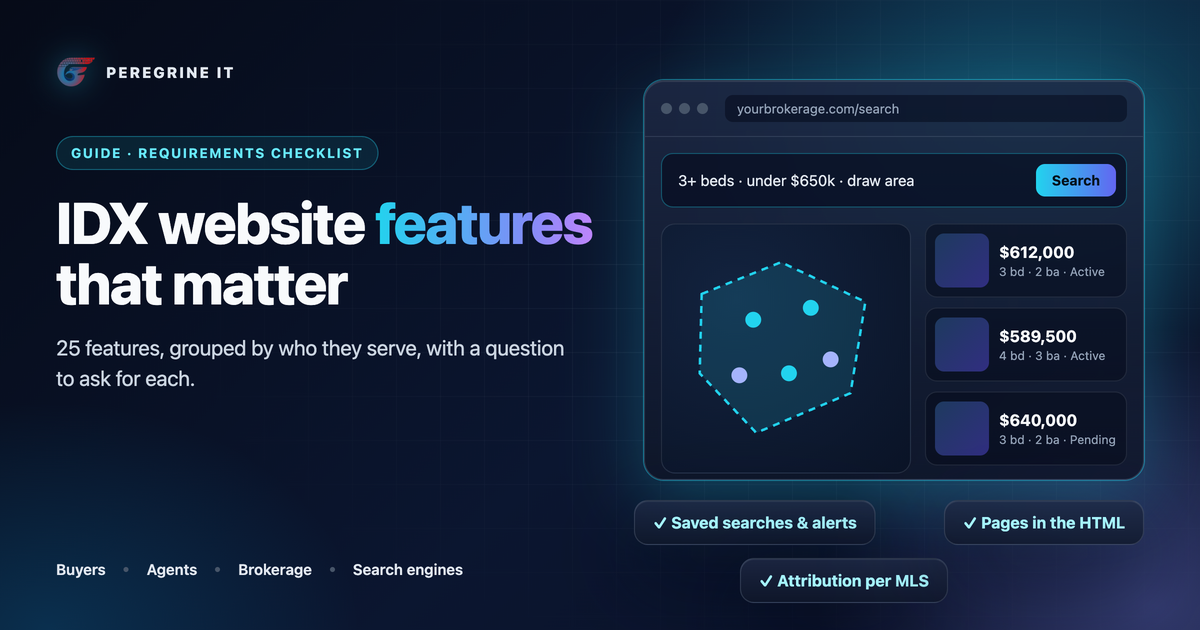
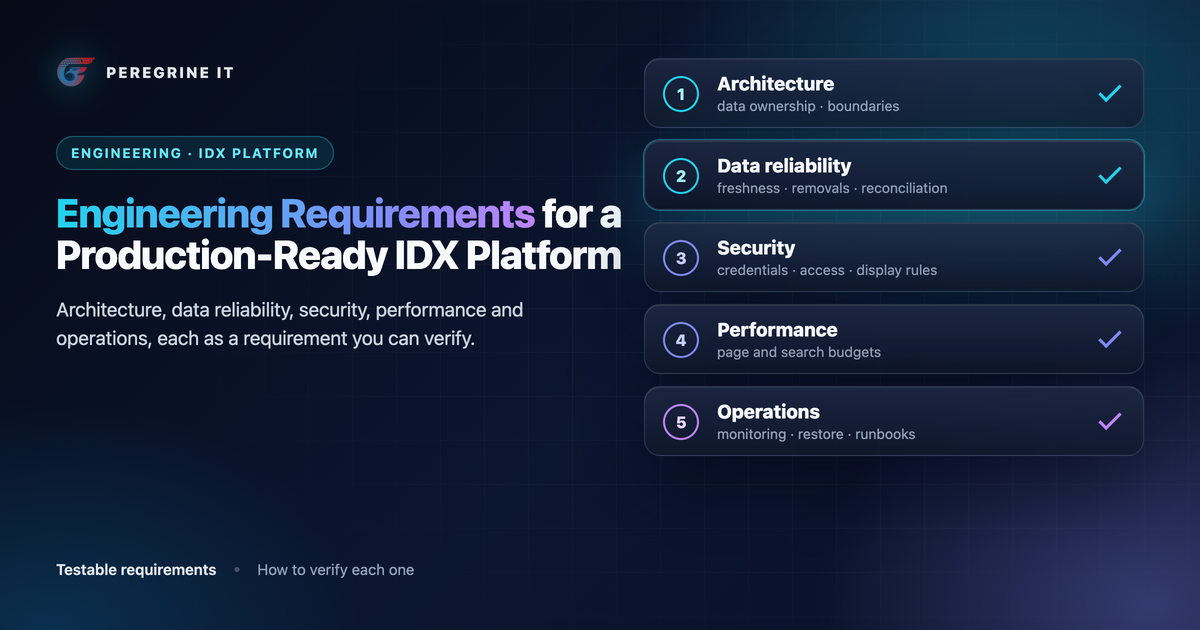
content: cover for the IDX engineering requirements article

diff --git a/design/blog-heroes/idx-website-features-checklist.html b/design/blog-heroes/idx-website-features-checklist.html
@@ -1,5 +1,5 @@
 <!doctype html><html lang="en"><head><meta charset="utf-8"><meta name="viewport" content="width=1200">
-<title>Guide · Requirements checklist</title><style>
+<title>Engineering · IDX platform</title><style>
 *{box-sizing:border-box;margin:0;padding:0}
 html,body{width:1200px;height:630px;overflow:hidden}
 body{font-family:Inter,'SF Pro Display',system-ui,-apple-system,'Segoe UI',Roboto,Helvetica,Arial,sans-serif;color:#f8fafc;
@@ -28,18 +28,14 @@ h1 em{font-style:normal;background:linear-gradient(90deg,#22d3ee,#818cf8 70%,#c0
  box-shadow:0 30px 80px rgba(2,6,23,.65),inset 0 1px 0 rgba(255,255,255,.07);backdrop-filter:blur(6px)}
 .glow{box-shadow:0 0 0 1px rgba(34,211,238,.45),0 24px 70px rgba(34,211,238,.28),inset 0 1px 0 rgba(255,255,255,.1)}
 .muted{color:#94a3b8}.cy{color:#67e8f9}
-.win{position:absolute;right:0;top:28px;width:500px;height:400px;overflow:hidden}.bar{display:flex;align-items:center;gap:7px;padding:14px 16px;border-bottom:1px solid rgba(148,163,184,.18)}
-.bar i{width:11px;height:11px;border-radius:50%;background:#475569}.url{margin-left:10px;flex:1;font-size:13px;color:#94a3b8;background:rgba(2,6,23,.5);border-radius:8px;padding:6px 12px}
-.search{margin:16px;display:flex;align-items:center;justify-content:space-between;background:rgba(2,6,23,.55);border:1px solid rgba(34,211,238,.35);border-radius:12px;padding:10px 10px 10px 16px;font-size:15px;color:#e2e8f0}
-.search b{background:linear-gradient(90deg,#22d3ee,#6366f1);color:#04121c;padding:8px 16px;border-radius:9px;font-size:14px}
-.body{display:flex;gap:14px;padding:0 16px}.map{width:250px;height:250px;border-radius:14px;background:radial-gradient(circle at 30% 30%,#13233f,#0a1326);border:1px solid rgba(148,163,184,.18)}
-.list{flex:1;display:flex;flex-direction:column;gap:10px}.it{display:flex;gap:10px;align-items:center;background:rgba(2,6,23,.45);border:1px solid rgba(148,163,184,.16);border-radius:12px;padding:9px}
-.it u{width:54px;height:54px;border-radius:9px;background:linear-gradient(135deg,#1e3a5f,#312e81);display:block}.it p{display:flex;flex-direction:column;font-size:16px}.it s{text-decoration:none;white-space:nowrap;font-size:12px;color:#94a3b8;margin-top:3px}
-.chk{position:absolute;font-size:16px;font-weight:700;padding:12px 18px;border-radius:14px;color:#a5f3fc}.k1{left:-10px;top:448px}.k2{left:96px;top:506px}.k3{right:0;top:448px}</style></head><body><div class="bg"></div><div class="grid"></div>
-<div class="wrap"><div class="left"><div class="brand"><img src="../../public/favicons/favicon-192x192.png" alt="">PEREGRINE IT</div><div class="pill">Guide · Requirements checklist</div>
-<h1>IDX website <em>features</em> that matter</h1><p class="sub">25 features, grouped by who they serve, with a question to ask for each.</p><div class="foot"><b>Buyers</b><span class='dot'></span><b>Agents</b><span class='dot'></span><b>Brokerage</b><span class='dot'></span><b>Search engines</b></div></div><div class="right"><div class="win glass glow"><div class="bar"><i></i><i></i><i></i><div class="url">yourbrokerage.com/search</div></div>
-<div class="search"><span>3+ beds · under $650k · draw area</span><b>Search</b></div>
-<div class="body"><div class="map"><svg viewBox="0 0 250 250"><path d="M40 70 L120 38 L205 78 L190 170 L95 210 L38 150 Z" fill="rgba(34,211,238,.14)" stroke="#22d3ee" stroke-width="2.5" stroke-dasharray="7 6"/>
-<g fill="#22d3ee"><circle cx="92" cy="96" r="8"/><circle cx="150" cy="84" r="8"/><circle cx="128" cy="150" r="8"/><circle cx="170" cy="136" r="8" fill="#a5b4fc"/><circle cx="78" cy="152" r="8" fill="#a5b4fc"/></g></svg></div>
-<div class="list"><div class="it"><u></u><p><b>$612,000</b><s>3 bd · 2 ba · Active</s></p></div><div class="it"><u></u><p><b>$589,500</b><s>4 bd · 3 ba · Active</s></p></div><div class="it"><u></u><p><b>$640,000</b><s>3 bd · 2 ba · Pending</s></p></div></div></div></div>
-<div class="chk k1 glass">✓ Saved searches &amp; alerts</div><div class="chk k2 glass">✓ Attribution per MLS</div><div class="chk k3 glass">✓ Pages in the HTML</div></div></div></body></html>
+.left{width:590px}.sub{font-size:19.5px;max-width:540px}h1{font-size:40px}.ly{position:absolute;right:0;width:500px;height:70px;border-radius:16px;padding:0 20px 0 72px;display:flex;flex-direction:column;justify-content:center}
+.ly b{font-size:19px;font-weight:800}.ly small{font-size:14px;color:#94a3b8;margin-top:3px}
+.ly i{position:absolute;left:18px;top:17px;width:36px;height:36px;border-radius:50%;border:2px solid #22d3ee;color:#a5f3fc;font-style:normal;font-weight:800;font-size:16px;display:flex;align-items:center;justify-content:center}
+.ly u{position:absolute;right:22px;top:26px;width:22px;height:11px;border-left:3px solid #22d3ee;border-bottom:3px solid #22d3ee;transform:rotate(-45deg);text-decoration:none}
+.l1{top:6px}.l2{top:88px}.l3{top:170px}.l4{top:252px}.l5{top:334px}.l3 i,.l4 i{border-color:#818cf8;color:#c7d2fe}.l3 u,.l4 u{border-color:#818cf8}.l5 i{border-color:#c084fc;color:#e9d5ff}.l5 u{border-color:#c084fc}</style></head><body><div class="bg"></div><div class="grid"></div>
+<div class="wrap"><div class="left"><div class="brand"><img src="../../public/favicons/favicon-192x192.png" alt="">PEREGRINE IT</div><div class="pill">Engineering · IDX platform</div>
+<h1><em>Engineering Requirements</em> for a Production-Ready IDX Platform</h1><p class="sub">Architecture, data reliability, security, performance and operations, each as a requirement you can verify.</p><div class="foot"><b>Testable requirements</b><span class='dot'></span>How to verify each one</div></div><div class="right"><div class="ly glass l1"><i>1</i><b>Architecture</b><small>data ownership · boundaries</small><u></u></div>
+<div class="ly glass glow l2"><i>2</i><b>Data reliability</b><small>freshness · removals · reconciliation</small><u></u></div>
+<div class="ly glass l3"><i>3</i><b>Security</b><small>credentials · access · display rules</small><u></u></div>
+<div class="ly glass l4"><i>4</i><b>Performance</b><small>page and search budgets</small><u></u></div>
+<div class="ly glass l5"><i>5</i><b>Operations</b><small>monitoring · restore · runbooks</small><u></u></div></div></div></body></html>

diff --git a/design/blog-heroes/build.py b/design/blog-heroes/build.py
@@ -52,22 +52,18 @@ cheapest = page("Guide · IDX pricing 2026", "The <em>cheapest IDX</em> options,
 .tag{display:inline-block;font-size:12.5px;font-weight:800;letter-spacing:.1em;text-transform:uppercase;color:#06202b;background:linear-gradient(90deg,#22d3ee,#a5b4fc);padding:6px 11px;border-radius:999px;margin-bottom:12px}
 .bars{display:flex;align-items:flex-end;gap:9px;height:96px;margin-top:18px}.bars b{flex:1;border-radius:6px 6px 2px 2px;background:linear-gradient(180deg,#22d3ee,#6366f1);opacity:.55}.bars b:nth-child(-n+3){opacity:1;box-shadow:0 0 18px rgba(34,211,238,.6)}""")
 
-features = page("Guide · Requirements checklist", "IDX website <em>features</em> that matter", "25 features, grouped by who they serve, with a question to ask for each.",
- "<b>Buyers</b><span class='dot'></span><b>Agents</b><span class='dot'></span><b>Brokerage</b><span class='dot'></span><b>Search engines</b>",
- """<div class="win glass glow"><div class="bar"><i></i><i></i><i></i><div class="url">yourbrokerage.com/search</div></div>
-<div class="search"><span>3+ beds · under $650k · draw area</span><b>Search</b></div>
-<div class="body"><div class="map"><svg viewBox="0 0 250 250"><path d="M40 70 L120 38 L205 78 L190 170 L95 210 L38 150 Z" fill="rgba(34,211,238,.14)" stroke="#22d3ee" stroke-width="2.5" stroke-dasharray="7 6"/>
-<g fill="#22d3ee"><circle cx="92" cy="96" r="8"/><circle cx="150" cy="84" r="8"/><circle cx="128" cy="150" r="8"/><circle cx="170" cy="136" r="8" fill="#a5b4fc"/><circle cx="78" cy="152" r="8" fill="#a5b4fc"/></g></svg></div>
-<div class="list"><div class="it"><u></u><p><b>$612,000</b><s>3 bd · 2 ba · Active</s></p></div><div class="it"><u></u><p><b>$589,500</b><s>4 bd · 3 ba · Active</s></p></div><div class="it"><u></u><p><b>$640,000</b><s>3 bd · 2 ba · Pending</s></p></div></div></div></div>
-<div class="chk k1 glass">✓ Saved searches &amp; alerts</div><div class="chk k2 glass">✓ Attribution per MLS</div><div class="chk k3 glass">✓ Pages in the HTML</div>""",
- """.win{position:absolute;right:0;top:28px;width:500px;height:400px;overflow:hidden}.bar{display:flex;align-items:center;gap:7px;padding:14px 16px;border-bottom:1px solid rgba(148,163,184,.18)}
-.bar i{width:11px;height:11px;border-radius:50%;background:#475569}.url{margin-left:10px;flex:1;font-size:13px;color:#94a3b8;background:rgba(2,6,23,.5);border-radius:8px;padding:6px 12px}
-.search{margin:16px;display:flex;align-items:center;justify-content:space-between;background:rgba(2,6,23,.55);border:1px solid rgba(34,211,238,.35);border-radius:12px;padding:10px 10px 10px 16px;font-size:15px;color:#e2e8f0}
-.search b{background:linear-gradient(90deg,#22d3ee,#6366f1);color:#04121c;padding:8px 16px;border-radius:9px;font-size:14px}
-.body{display:flex;gap:14px;padding:0 16px}.map{width:250px;height:250px;border-radius:14px;background:radial-gradient(circle at 30% 30%,#13233f,#0a1326);border:1px solid rgba(148,163,184,.18)}
-.list{flex:1;display:flex;flex-direction:column;gap:10px}.it{display:flex;gap:10px;align-items:center;background:rgba(2,6,23,.45);border:1px solid rgba(148,163,184,.16);border-radius:12px;padding:9px}
-.it u{width:54px;height:54px;border-radius:9px;background:linear-gradient(135deg,#1e3a5f,#312e81);display:block}.it p{display:flex;flex-direction:column;font-size:16px}.it s{text-decoration:none;white-space:nowrap;font-size:12px;color:#94a3b8;margin-top:3px}
-.chk{position:absolute;font-size:16px;font-weight:700;padding:12px 18px;border-radius:14px;color:#a5f3fc}.k1{left:-10px;top:448px}.k2{left:96px;top:506px}.k3{right:0;top:448px}""")
+features = page("Engineering · IDX platform", "<em>Engineering Requirements</em> for a Production-Ready IDX Platform", "Architecture, data reliability, security, performance and operations, each as a requirement you can verify.",
+ "<b>Testable requirements</b><span class='dot'></span>How to verify each one",
+ """<div class="ly glass l1"><i>1</i><b>Architecture</b><small>data ownership · boundaries</small><u></u></div>
+<div class="ly glass glow l2"><i>2</i><b>Data reliability</b><small>freshness · removals · reconciliation</small><u></u></div>
+<div class="ly glass l3"><i>3</i><b>Security</b><small>credentials · access · display rules</small><u></u></div>
+<div class="ly glass l4"><i>4</i><b>Performance</b><small>page and search budgets</small><u></u></div>
+<div class="ly glass l5"><i>5</i><b>Operations</b><small>monitoring · restore · runbooks</small><u></u></div>""",
+ ".left{width:590px}.sub{font-size:19.5px;max-width:540px}"+"""h1{font-size:40px}.ly{position:absolute;right:0;width:500px;height:70px;border-radius:16px;padding:0 20px 0 72px;display:flex;flex-direction:column;justify-content:center}
+.ly b{font-size:19px;font-weight:800}.ly small{font-size:14px;color:#94a3b8;margin-top:3px}
+.ly i{position:absolute;left:18px;top:17px;width:36px;height:36px;border-radius:50%;border:2px solid #22d3ee;color:#a5f3fc;font-style:normal;font-weight:800;font-size:16px;display:flex;align-items:center;justify-content:center}
+.ly u{position:absolute;right:22px;top:26px;width:22px;height:11px;border-left:3px solid #22d3ee;border-bottom:3px solid #22d3ee;transform:rotate(-45deg);text-decoration:none}
+.l1{top:6px}.l2{top:88px}.l3{top:170px}.l4{top:252px}.l5{top:334px}.l3 i,.l4 i{border-color:#818cf8;color:#c7d2fe}.l3 u,.l4 u{border-color:#818cf8}.l5 i{border-color:#c084fc;color:#e9d5ff}.l5 u{border-color:#c084fc}""")
 
 boards = page("Reference · MLS data access", "15 US MLS Boards: A <em>Data Access Reference</em>", "Who each serves, how data is delivered, feed types, who may license and where to apply.",
  "<b>MLS Grid</b><span class='dot'></span><b>Trestle</b><span class='dot'></span><b>Bridge</b><span class='dot'></span><b>Spark</b><span class='dot'></span><b>Own API</b>",
